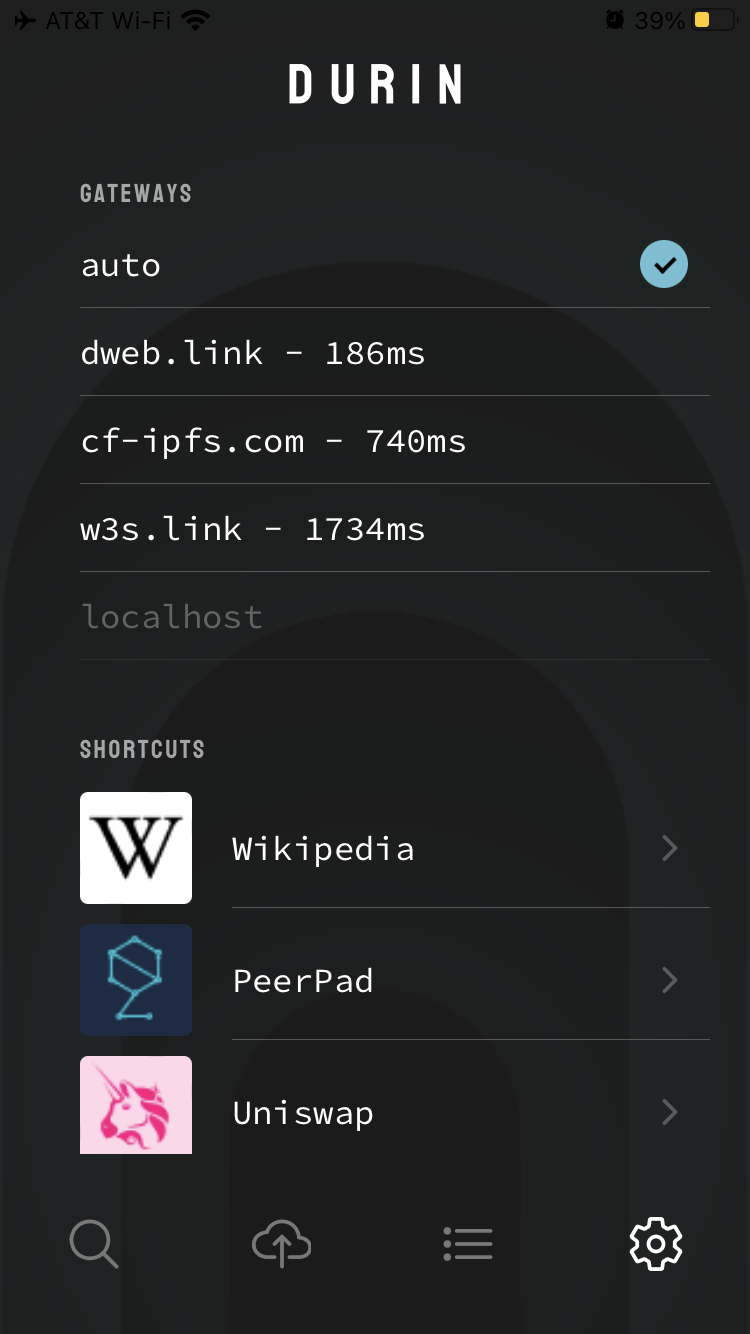
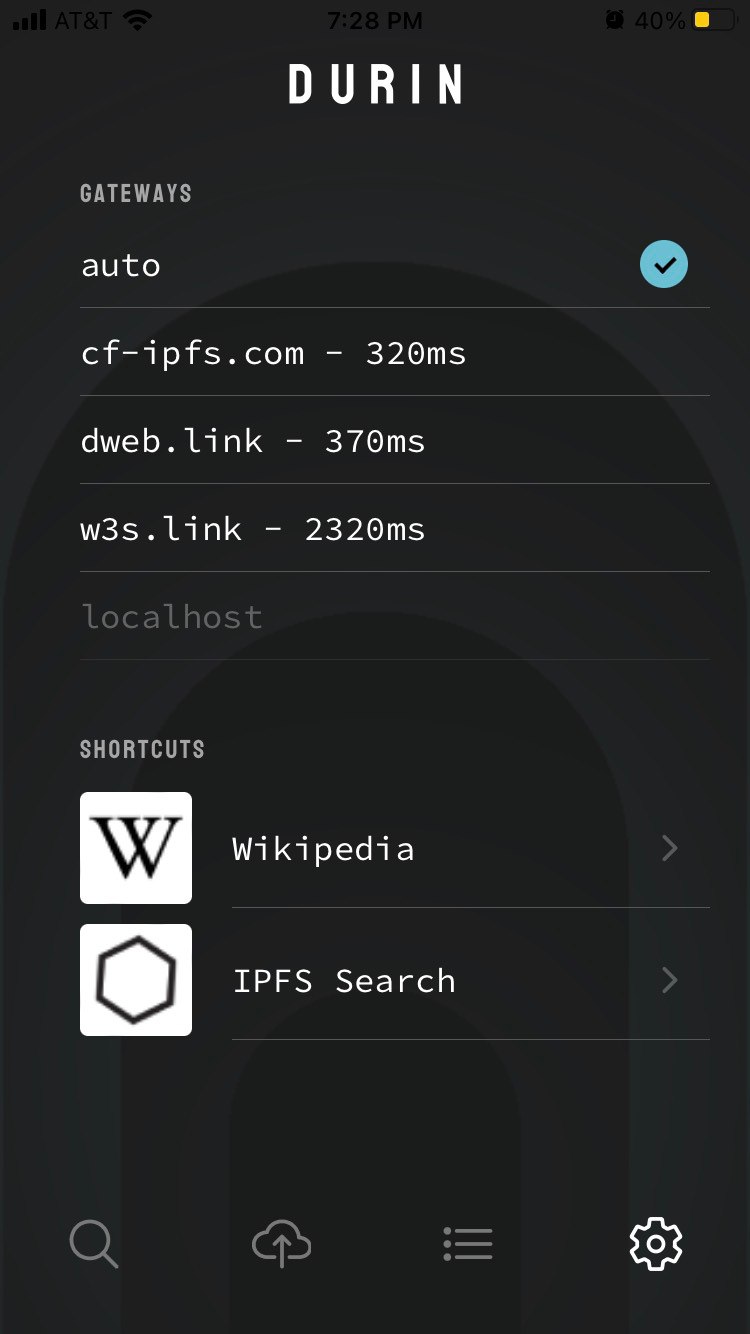
Update gateway image and set width on blog images

diff --git a/src/_blog/2023-01-26-announcing-durin.md b/src/_blog/2023-01-26-announcing-durin.md
@@ -22,13 +22,13 @@ The transport-agnostic nature of IPFS content addresses means there are many way
 
 We do this in Durin by connecting to multiple HTTP gateways to the IPFS network. On app launch, Durin pings a list of public gateways, and determines which route is the most reliable and fastest way to access the network. This approach is functional but not optimal. We're working on specifications for multi-gateway connectivity patterns which balance a number of factors - such as verifiability guarantees, reader privacy, and not overloading gateways.
 
-![Gateway list](../assets/announcing-durin-ipfs/gateway-durin.png)
+<img src="../assets/announcing-durin-ipfs/gateway-durin.png" alt="gateway list" width="350">
 
 IPFS addresses are not natively supported in most web browsers or any mobile operating systems today. Durin registers as an `ipfs` scheme handler so that addresses are handled when encountered in applications and on the web.
 
 For example, when browsing on iOS Safari ([sorry Chrome users](https://bugs.chromium.org/p/chromium/issues/detail?id=178097&q=protocol%20handler%20mobile&can=2)) `ipfs://` protocol links will be redirected to Durin, where the app will translate and redirect the user to the fastest public gateway, making the content available on mobile.
 
-![redirect functionality on mobile safari](../assets/announcing-durin-ipfs/durin-redirect.gif)
+<img src="../assets/announcing-durin-ipfs/durin-redirect.gif" alt="redirect functionality on mobile safari" width="350">
 
 ## Sharing to IPFS from Mobile
 
@@ -38,7 +38,7 @@ We currently rely on [web3.storage](https://web3.storage/) for file uploads. `we
 
 Durin also saves a local history of uploads already shared.
 
-![uploaded files list](../assets/announcing-durin-ipfs/filelist-durin.png)
+<img src="../assets/announcing-durin-ipfs/filelist-durin.png" alt="uploaded files list" width="350">
 
 :warning: (screenshot) TODO :warning:
 
